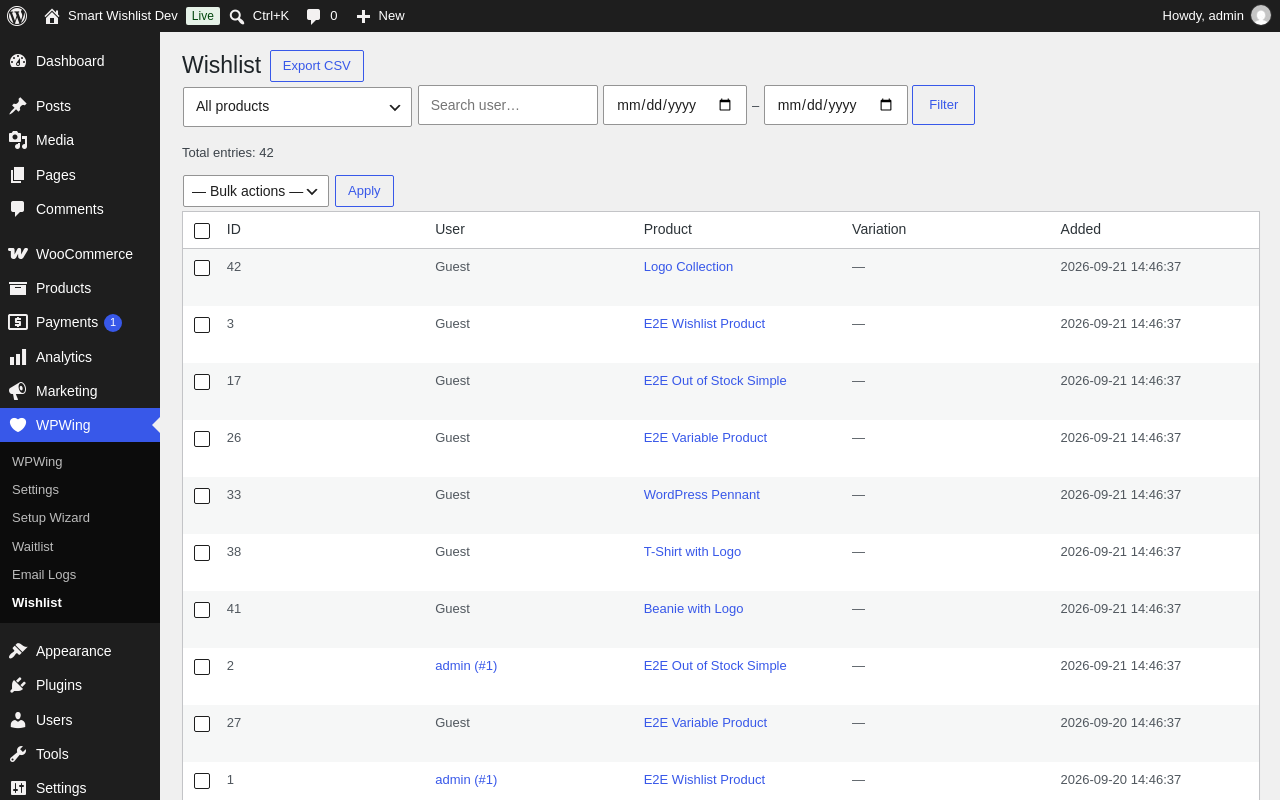
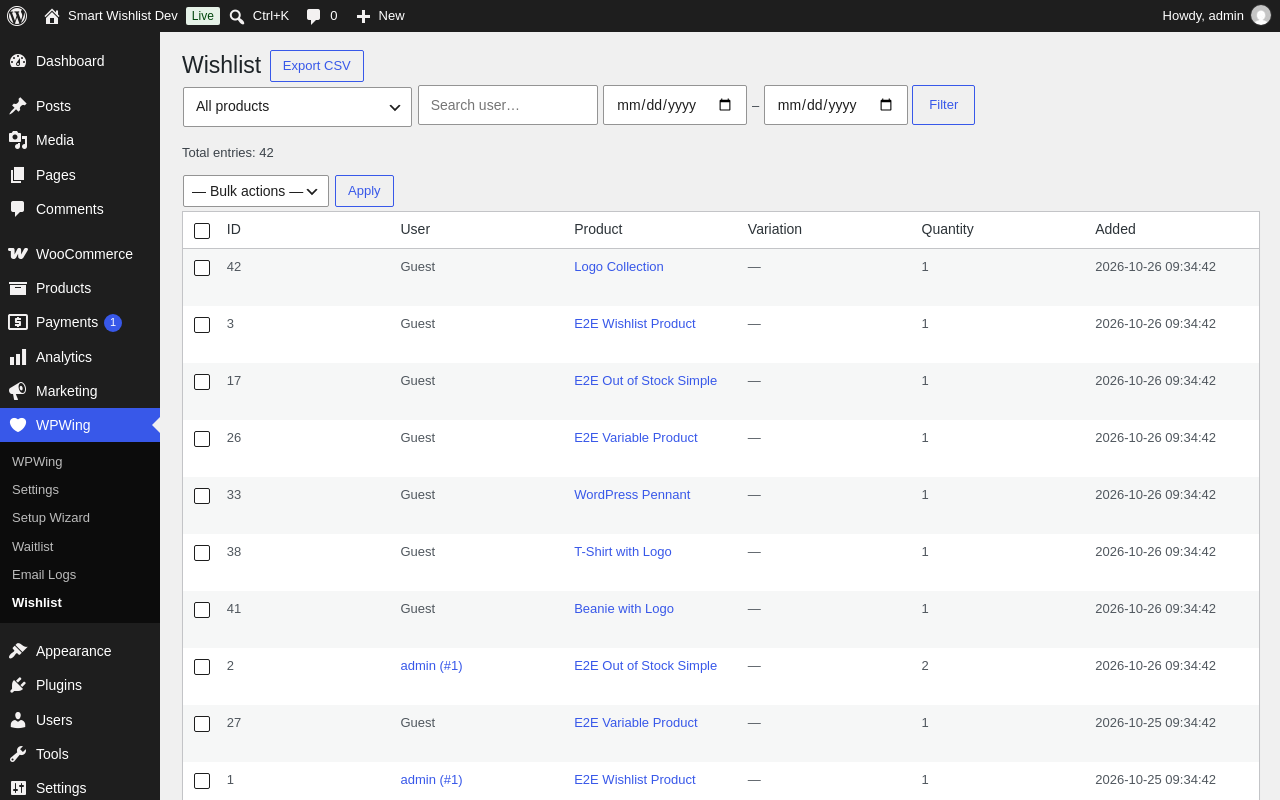
feat(assets): update directory screenshots and add waitlist popup modal showcase

diff --git a/tools/screenshots.js b/tools/screenshots.js
@@ -53,7 +53,7 @@ const SHOTS = [
 	},
 	{
 		file: 'screenshot-2.png',
-		caption: 'Customer saved wishlist page with running total and social sharing',
+		caption: 'Customer saved wishlist page with stock status, per-item quantity selector, bulk actions, and running total',
 		capture: async ( page ) => {
 			await page.goto( `${ BASE_URL }/my-wishlist/` );
 			await page.locator( '.wpwing-wishlist-table' ).first().waitFor( { state: 'visible' } );
@@ -102,7 +102,7 @@ const SHOTS = [
 	},
 	{
 		file: 'screenshot-6.png',
-		caption: 'Admin Wishlist dashboard ranking most-saved products by customer demand',
+		caption: 'Admin Wishlist dashboard ranking most-saved products with item quantities and CSV export',
 		capture: async ( page ) => {
 			await page.goto( `${ BASE_URL }/wp-admin/admin.php?page=wpwing-wl-wishlist` );
 			await page.locator( '.wp-list-table' ).first().waitFor( { state: 'visible' } );
@@ -112,17 +112,17 @@ const SHOTS = [
 	},
 	{
 		file: 'screenshot-7.png',
-		caption: 'Admin Settings screen - feature toggles, styling, and bot protection',
+		caption: 'Admin Settings screen - button styles, icon shapes, and live form preset preview',
 		capture: async ( page ) => {
 			await page.goto( `${ BASE_URL }/wp-admin/admin.php?page=wpwing-wl-settings` );
 			await page.locator( 'form[action="options.php"]' ).first().waitFor( { state: 'visible' } );
 			await hideAdminNotices( page );
 			await page.evaluate( () => {
-				const botSection = Array.from( document.querySelectorAll( 'h2' ) ).find( ( el ) => el.textContent.includes( 'Bot Protection' ) );
-				if ( botSection ) {
-					botSection.scrollIntoView( { block: 'center' } );
+				const previewSection = document.querySelector( '#wpwing-wl-preset-preview' );
+				if ( previewSection ) {
+					previewSection.scrollIntoView( { block: 'center' } );
 				} else {
-					window.scrollBy( 0, 350 );
+					window.scrollBy( 0, 200 );
 				}
 			} );
 			await page.screenshot( { path: shotPath( 'screenshot-7.png' ) } );
@@ -136,6 +136,35 @@ const SHOTS = [
 			await page.locator( '.wp-list-table' ).first().waitFor( { state: 'visible' } );
 			await hideAdminNotices( page );
 			await page.screenshot( { path: shotPath( 'screenshot-8.png' ) } );
+		},
+	},
+	{
+		file: 'screenshot-9.png',
+		caption: 'Waitlist popup modal mode on an out-of-stock product page',
+		capture: async ( page ) => {
+			await page.goto( `${ BASE_URL }/wp-admin/admin.php?page=wpwing-wl-settings` );
+			await page.locator( '[name="wpwing_wl_waitlist_form_preset"]' ).selectOption( 'popup' );
+			await Promise.all( [
+				page.waitForResponse( ( res ) => res.url().includes( 'options.php' ) && res.request().method() === 'POST' ),
+				page.getByRole( 'button', { name: 'Save Changes' } ).click(),
+			] );
+
+			await page.goto( `${ BASE_URL }/product/e2e-oos-simple/` );
+			await hideAdminBar( page );
+			const modalBtn = page.locator( '.wpwing-waitlist-modal-open' ).first();
+			await modalBtn.waitFor( { state: 'visible' } );
+			await modalBtn.click();
+			await page.locator( '.wpwing-waitlist-modal-overlay:not(.wpwing-wl-hidden)' ).first().waitFor( { state: 'visible' } );
+			await page.waitForLoadState( 'networkidle' );
+			await page.screenshot( { path: shotPath( 'screenshot-9.png' ) } );
+
+			// Restore preset to default
+			await page.goto( `${ BASE_URL }/wp-admin/admin.php?page=wpwing-wl-settings` );
+			await page.locator( '[name="wpwing_wl_waitlist_form_preset"]' ).selectOption( 'default' );
+			await Promise.all( [
+				page.waitForResponse( ( res ) => res.url().includes( 'options.php' ) && res.request().method() === 'POST' ),
+				page.getByRole( 'button', { name: 'Save Changes' } ).click(),
+			] );
 		},
 	},
 ];

diff --git a/docker/wordpress/seed-screenshots-data.php b/docker/wordpress/seed-screenshots-data.php
@@ -60,7 +60,7 @@ $wpdb->query( "TRUNCATE TABLE {$wpdb->prefix}wpwing_wl_email_logs" );
 $admin_user = get_user_by( 'login', 'admin' );
 $admin_id   = $admin_user ? (int) $admin_user->ID : 1;
 
-// 1. Seed Wishlist (admin has 2 items)
+// 1. Seed Wishlist (admin has 2 items: one in-stock, one out-of-stock with varied quantities)
 $wpdb->insert(
 	"{$wpdb->prefix}wpwing_wl_wishlists",
 	array(
@@ -68,6 +68,7 @@ $wpdb->insert(
 		'guest_token'  => '',
 		'product_id'   => $wishlist_product->get_id(),
 		'variation_id' => 0,
+		'quantity'     => 1,
 		'created_at'   => gmdate( 'Y-m-d H:i:s', strtotime( '-2 days' ) ),
 	)
 );
@@ -78,6 +79,7 @@ $wpdb->insert(
 		'guest_token'  => '',
 		'product_id'   => $oos_product->get_id(),
 		'variation_id' => 0,
+		'quantity'     => 2,
 		'created_at'   => gmdate( 'Y-m-d H:i:s', strtotime( '-1 day' ) ),
 	)
 );
@@ -106,6 +108,7 @@ foreach ( $seed_counts as $pid => $count ) {
 				'guest_token'  => wp_generate_password( 64, false ),
 				'product_id'   => $pid,
 				'variation_id' => 0,
+				'quantity'     => 1,
 				'created_at'   => gmdate( 'Y-m-d H:i:s', strtotime( '-' . ( $i + 1 ) . ' days' ) ),
 			)
 		);
